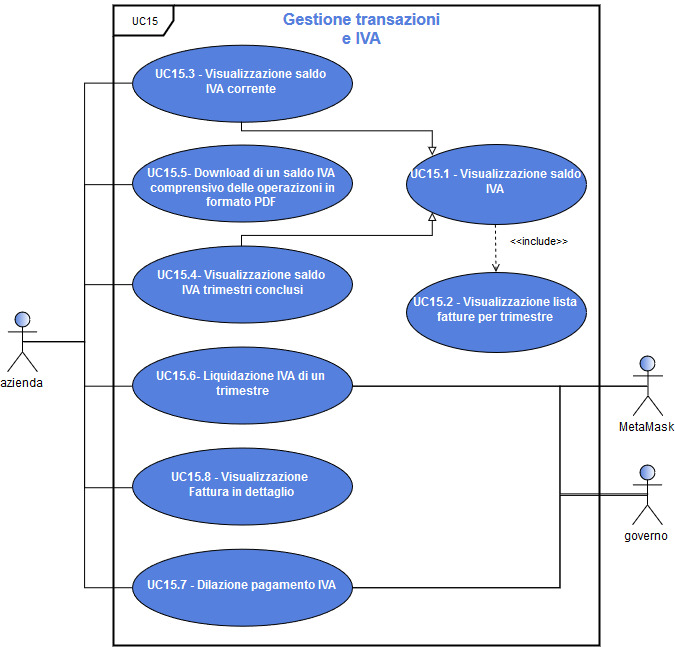
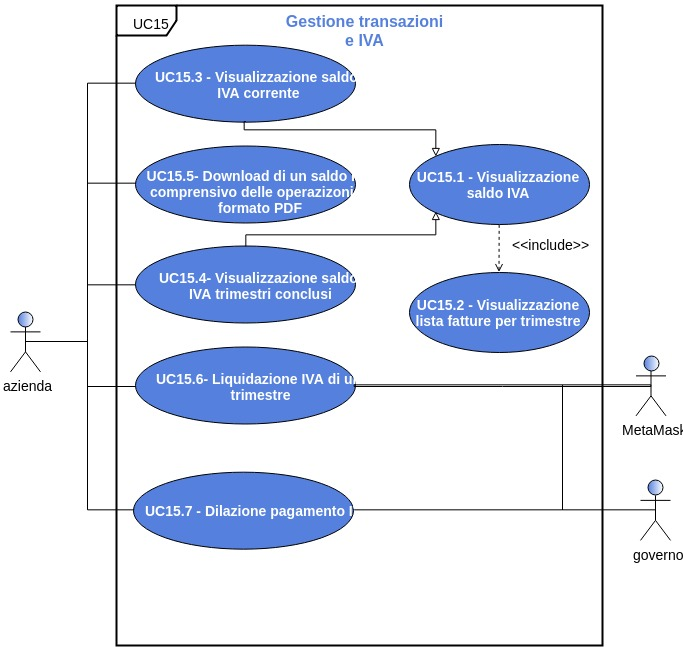
aggiornata immagine di uc15: 15.8 rimosso (infatti è tornato a essere 15.2.1)

diff --git a/02-RP/Esterni/Analisi_dei_requisiti/res/sections/UC/UC15IVAAzienda.tex b/02-RP/Esterni/Analisi_dei_requisiti/res/sections/UC/UC15IVAAzienda.tex
@@ -59,6 +59,42 @@
 	\item \textbf{Postcondizione}: l'azienda ha visualizzato la lista delle fatture d'acquisto e vendita.
 \end{itemize}
 
+\subsubsection{UC15.2.1 - Visualizzazione fattura in dettaglio}
+
+\begin{itemize}
+	\item \textbf{Attori Primari}: azienda;
+	\item \textbf{Descrizione}: l'azienda può leggere tutti i dettagli di una fattura. In essa devono essere presenti tutti i seguenti campi:
+	\begin{itemize}
+		\item data della fattura;
+		\item numero identificativo della fattura;
+		\item la data dell'ordine relativo alla fattura;
+		\item il numero identificativo dell'ordine relativo alla fattura;
+		\item visualizzazione dei prodotti in formato fattura, ovvero UC5 con due campi aggiuntivi per ogni prodotto, ovvero il prezzo netto\glosp e l'aliquota IVA;
+		\item l'importo totale IVA;
+		\item l'importo totale dell'ordine;
+		\item il nome dell'azienda emittente;
+		\item la partita IVA dell'azienda emittente;
+		\item informazioni relative all'acquirente:
+		\begin{itemize}
+			\item nel caso il cliente fosse un'\textbf{azienda}:
+			\begin{itemize}
+				\item il nome dell'azienda destinataria;
+				\item la partita IVA dell'azienda destinataria.
+			\end{itemize}
+			\item nel caso il cliente fosse un \textbf{cittadino}:
+			\begin{itemize}
+				\item il nome;
+				\item il cognome.
+			\end{itemize}
+		\end{itemize}
+		
+		\item indirizzo di spedizione dell'ordine.
+	\end{itemize}
+	\item \textbf{Scenario principale}: l'azienda seleziona una fattura da una lista e può leggere tutti i dettagli di tale fattura;
+	\item \textbf{Precondizione}: l'azienda si trova nella pagina di visualizzazione della lista delle fatture e seleziona la visualizzazione dei dettagli di una specifica fattura;
+	\item \textbf{Postcondizione}: l'azienda ha visualizzato i dettagli della fattura selezionata.
+\end{itemize} 
+
 \subsubsection{UC15.3 - Visualizzazione saldo IVA corrente}
 \begin{itemize}
 	\item \textbf{Attori Primari}: azienda;
@@ -111,40 +147,6 @@
 \end{itemize} 
 
 
-\subsubsection{UC15.8 - Visualizzazione fattura in dettaglio}
 
-\begin{itemize}
-	\item \textbf{Attori Primari}: azienda;
-	\item \textbf{Descrizione}: l'azienda può leggere tutti i dettagli di una fattura. In essa devono essere presenti tutti i seguenti campi:
-	\begin{itemize}
-		\item data della fattura;
-		\item numero identificativo della fattura;
-		\item la data dell'ordine relativo alla fattura;
-		\item il numero identificativo dell'ordine relativo alla fattura;
-		\item visualizzazione dei prodotti in formato fattura, ovvero UC5 con due campi aggiuntivi per ogni prodotto, ovvero il prezzo netto\glosp e l'aliquota IVA;
-		\item l'importo totale IVA;
-		\item l'importo totale dell'ordine;
-		\item il nome dell'azienda emittente;
-		\item la partita IVA dell'azienda emittente;
-		\item informazioni relative all'acquirente:
-		\begin{itemize}
-			\item nel caso il cliente fosse un'\textbf{azienda}:
-			\begin{itemize}
-				\item il nome dell'azienda destinataria;
-				\item la partita IVA dell'azienda destinataria.
-			\end{itemize}
-			\item nel caso il cliente fosse un \textbf{cittadino}:
-			\begin{itemize}
-				\item il nome;
-				\item il cognome.
-			\end{itemize}
-		\end{itemize}
-		
-		\item indirizzo di spedizione dell'ordine.
-	\end{itemize}
-	\item \textbf{Scenario principale}: l'azienda seleziona una fattura da una lista e può leggere tutti i dettagli di tale fattura;
-	\item \textbf{Precondizione}: l'azienda si trova nella pagina di visualizzazione della lista delle fatture e seleziona la visualizzazione dei dettagli di una specifica fattura;
-	\item \textbf{Postcondizione}: l'azienda ha visualizzato i dettagli della fattura selezionata.
-\end{itemize} 
 
 
